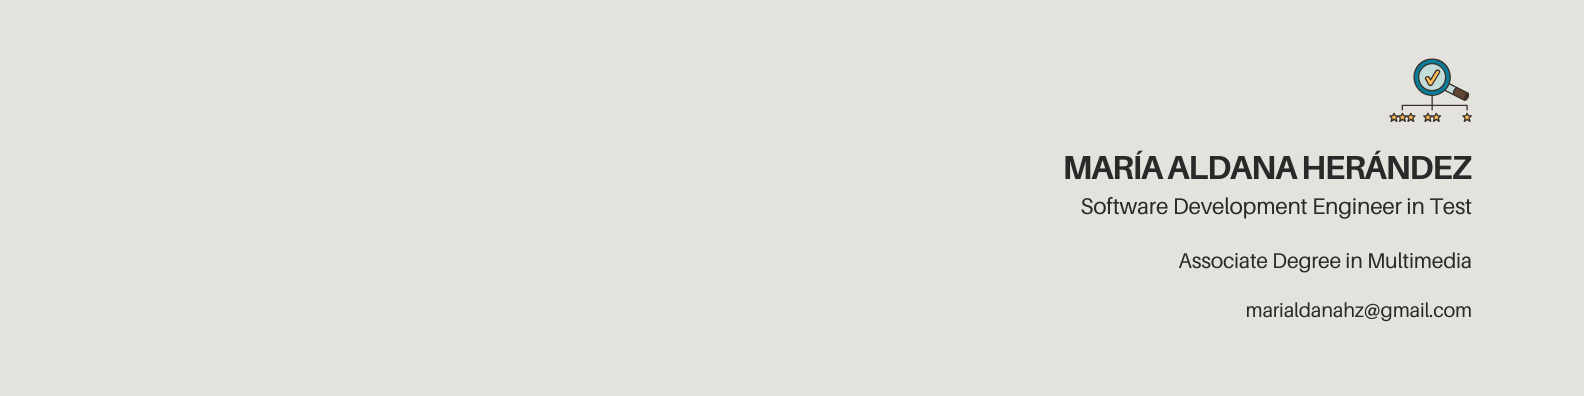
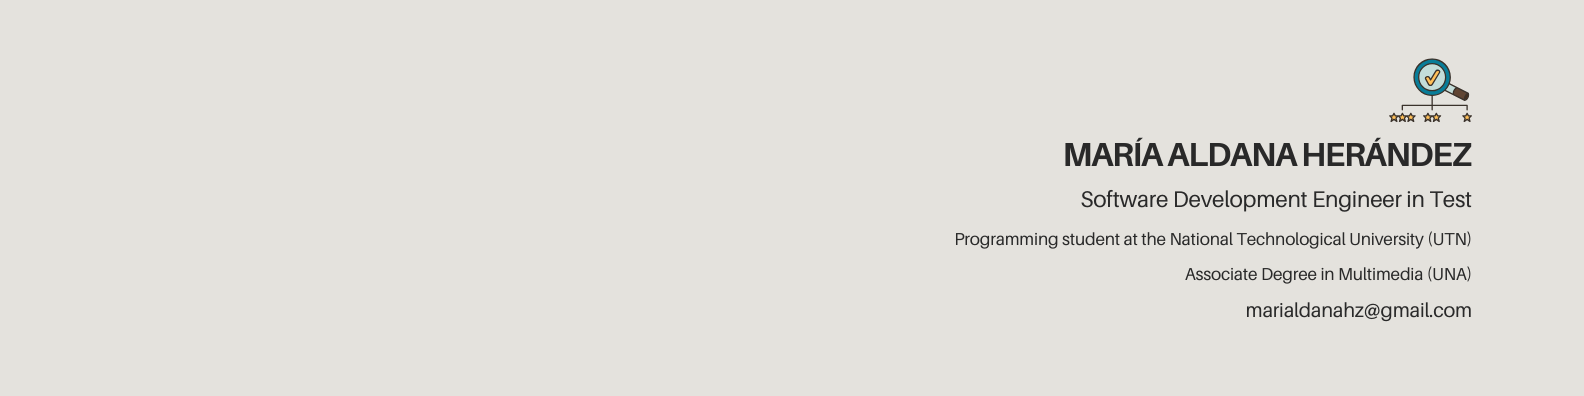
docs: :memo: update header and bio

Changed region(s): [[0.5878, 0.5758, 0.928, 0.7273], [0.6496, 0.3636, 0.928, 0.4545], [0.6806, 0.4848, 0.928, 0.5455]]

diff --git a/README.md b/README.md
@@ -2,9 +2,10 @@
 [![LinkedIn Badge](https://img.shields.io/badge/LinkedIn-Profile-informational?style=flat&logo=linkedin&logoColor=black&color=e4e2dd)](https://www.linkedin.com/in/marialdanahz/)
 
 - 👋 Hi, I’m Aldi!
-- 👀 I’m interested in Testing and Development 
-- 🎨 I´m a technician in Multimedia Arts.
-- 🌱 I´m constantly learning about development technologies.
+- 👀 I’m interested in development and testing.
+- 🎓 Currently studying Programming Technician at UTN, Argentina.
+- 🕹 Multimedia Arts Technician.
+- 🌱 Always learning and exploring new development technologies.
 
 <!---
 aldimhernandez/aldimhernandez is a ✨ special ✨ repository because its `README.md` (this file) appears on your GitHub profile.
@@ -16,7 +17,7 @@ You can click the Preview link to take a look at your changes.
 
 <br>
   <a href="https://github.com/aldimhernandez">
-    <img align="center" style="margin:0.5rem" src="https://github-readme-stats.vercel.app/api/top-langs/?username=aldimhernandez&hide=html,css&title_color=ffffff&text_color=c9cacc&icon_color=4AB197&bg_color=1A2B34" />
+    <img align="center" style="margin:0.5rem" src="https://github-readme-stats.vercel.app/api/top-langs/?username=aldimhernandez&hide=processing&title_color=ffffff&text_color=c9cacc&icon_color=4AB197&bg_color=1A2B34" />
   </a>
 <br>
 <br>
@@ -30,6 +31,7 @@ You can click the Preview link to take a look at your changes.
 ## 🚀 Tech Stack
 
 🧑💻 Languages & Frameworks
+
 <p> 
   <img src="https://img.shields.io/badge/Code-JavaScript-informational?style=flat&logo=javascript&logoColor=white&color=e4e2dd"/> 
   <img src="https://img.shields.io/badge/Code-TypeScript-informational?style=flat&logo=typescript&logoColor=white&color=e4e2dd"/> 
@@ -43,6 +45,7 @@ You can click the Preview link to take a look at your changes.
 </p>
 
 🧪 Testing Tools
+
 <p> 
   <img src="https://img.shields.io/badge/Test-Cypress-informational?style=flat&logo=cypress&logoColor=white&color=e4e2dd"/>
   <img src="https://img.shields.io/badge/Test-Playwright-informational?style=flat&logo=playwright&logoColor=white&color=e4e2dd"/>
@@ -60,13 +63,14 @@ You can click the Preview link to take a look at your changes.
 </p>
 
 ⚙ DevOps & CI/CD
+
 <p> 
   <img src="https://img.shields.io/badge/Platform-GitHub_Actions-informational?style=flat&logo=githubactions&logoColor=white&color=e4e2dd"/>
   <img src="https://img.shields.io/badge/Platform-OpenShift-informational?style=flat&logo=redhatopenshift&logoColor=white&color=e4e2dd"/>
-  <img src="https://img.shields.io/badge/Platform-Azure_Boards-informational?style=flat&logo=azuredevops&logoColor=white&color=e4e2dd"/> 
 </p>
 
 🗂 Project Management & Collaboration
+
 <p> 
   <img src="https://img.shields.io/badge/Tool-Jira-informational?style=flat&logo=jira&logoColor=white&color=e4e2dd"/>
   <img src="https://img.shields.io/badge/Tool-Trello-informational?style=flat&logo=trello&logoColor=white&color=e4e2dd"/>
@@ -77,6 +81,7 @@ You can click the Preview link to take a look at your changes.
 </p>
 
 🗄 Databases
+
 <p> 
   <img src="https://img.shields.io/badge/DB-MySQL-informational?style=flat&logo=mysql&logoColor=white&color=e4e2dd"/>
   <img src="https://img.shields.io/badge/DB-Microsoft_SQL_Server-informational?style=flat&logo=microsoftsqlserver&logoColor=white&color=e4e2dd"/>
@@ -84,6 +89,7 @@ You can click the Preview link to take a look at your changes.
 </p>
 
 🧰 Tools & Platforms
+
 <p> 
   <img src="https://img.shields.io/badge/Tool-VSCode-informational?style=flat&logo=visualstudiocode&logoColor=white&color=e4e2dd"/> 
   <img src="https://img.shields.io/badge/Tool-IntelliJ_IDEA-informational?style=flat&logo=intellijidea&logoColor=white&color=e4e2dd"/> 
@@ -98,6 +104,7 @@ You can click the Preview link to take a look at your changes.
 </p>
 
 🧠 Knowledge & Concepts
+
 <p> 
   <img src="https://img.shields.io/badge/Methodology-Agile-informational?style=flat&logo=agile&logoColor=white&color=e4e2dd"/>
   <img src="https://img.shields.io/badge/Methodology-Scrum-informational?style=flat&logo=scrumalliance&logoColor=white&color=e4e2dd"/>
@@ -113,4 +120,3 @@ You can click the Preview link to take a look at your changes.
   <br> 
   <img src="https://img.shields.io/badge/Analytics-Google_Analytics-informational?style=flat&logo=googleanalytics&logoColor=white&color=e4e2dd"/> 
 </p>
-
